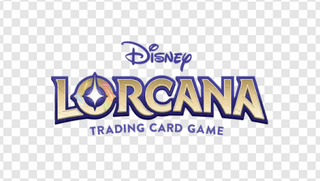
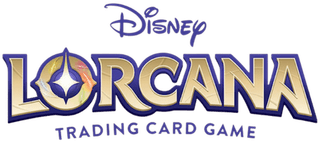
Játéklogók sötét háttérre: Lorcana sakktábla-háttér nélkül (Wikipédia logófájl), Magic (hivatalos 2017-es logó) és One Piece világos felirattal; Tavern Miskolc nyitvatartása a naptár időpont-ellenőrzésében (szerda–péntek 15–21, szombat 10–21, vasárnap 11–20)

diff --git a/lib/storeHours.js b/lib/storeHours.js
@@ -1,5 +1,5 @@
 // Boltok nyitvatartása (a hét napja: 0 = vasárnap ... 6 = szombat; [nyitás, zárás] "ÓÓ:PP"; null = zárva).
-// Ha egy boltnak nincs megadva nyitvatartás (pl. Tavern Miskolc), nem ellenőrizzük.
+// Ha egy boltnak nincs megadva nyitvatartás, nem ellenőrizzük.
 export const STORE_HOURS = {
   debrecen: {
     0: ['11:00', '20:00'],
@@ -19,7 +19,15 @@ export const STORE_HOURS = {
     5: ['14:00', '20:00'],
     6: ['10:00', '21:00'],
   },
-  // miskolc: még nincs megadva
+  miskolc: {
+    0: ['11:00', '20:00'],
+    1: null,
+    2: null,
+    3: ['15:00', '21:00'],
+    4: ['15:00', '21:00'],
+    5: ['15:00', '21:00'],
+    6: ['10:00', '21:00'],
+  },
 };
 
 // Az esemény leghamarabb ennyivel nyitás után kezdődhet (hogy legyen idő előkészülni)

diff --git a/lib/gameConfig.js b/lib/gameConfig.js
@@ -1,5 +1,7 @@
 // A játékok képei a public/jatekok mappában vannak: a korábban külső címről betöltött logók arányosan kicsinyített
 // (legfeljebb 320x320-as) helyi másolatai. A naptár, a jelentkezési oldal és a weboldal is ezeket használja.
+// Kivétel: a Lorcana- és a One Piece-logó a Wikipédia logófájlja, a Magic a hivatalos 2017-es logó (közkincs);
+// a Magic és a One Piece sötét feliratát világosra fordítottuk, hogy a naptár sötét hátterén olvasható legyen.
 export const DEFAULT_GAME_LOGO = '/jatekok/egyeb.png';
 
 export const GAME_CONFIG = {
